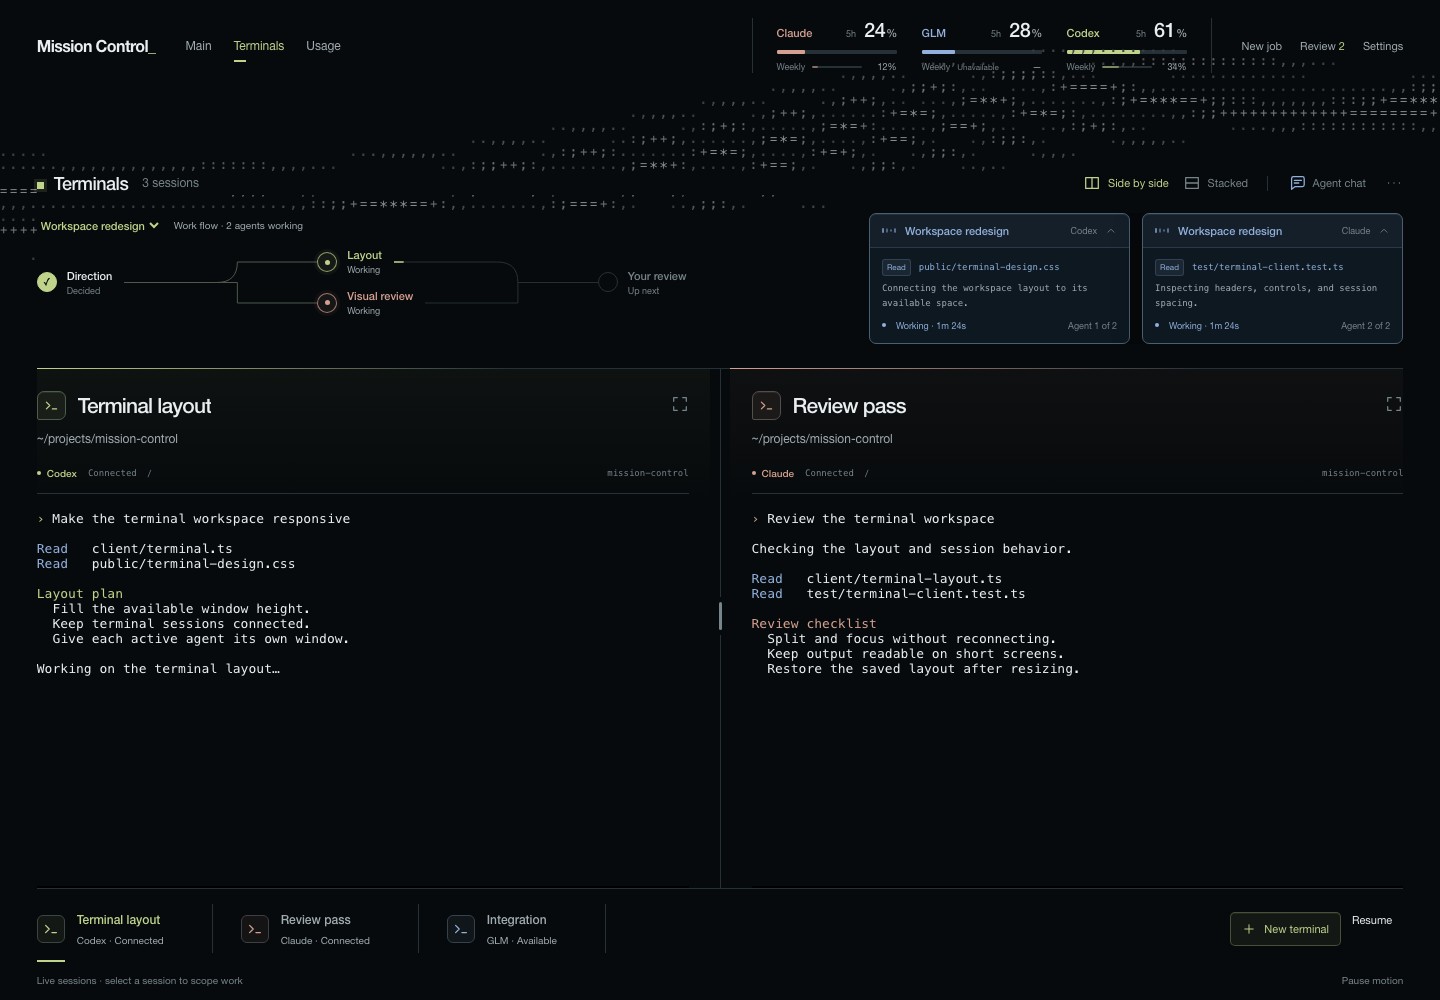
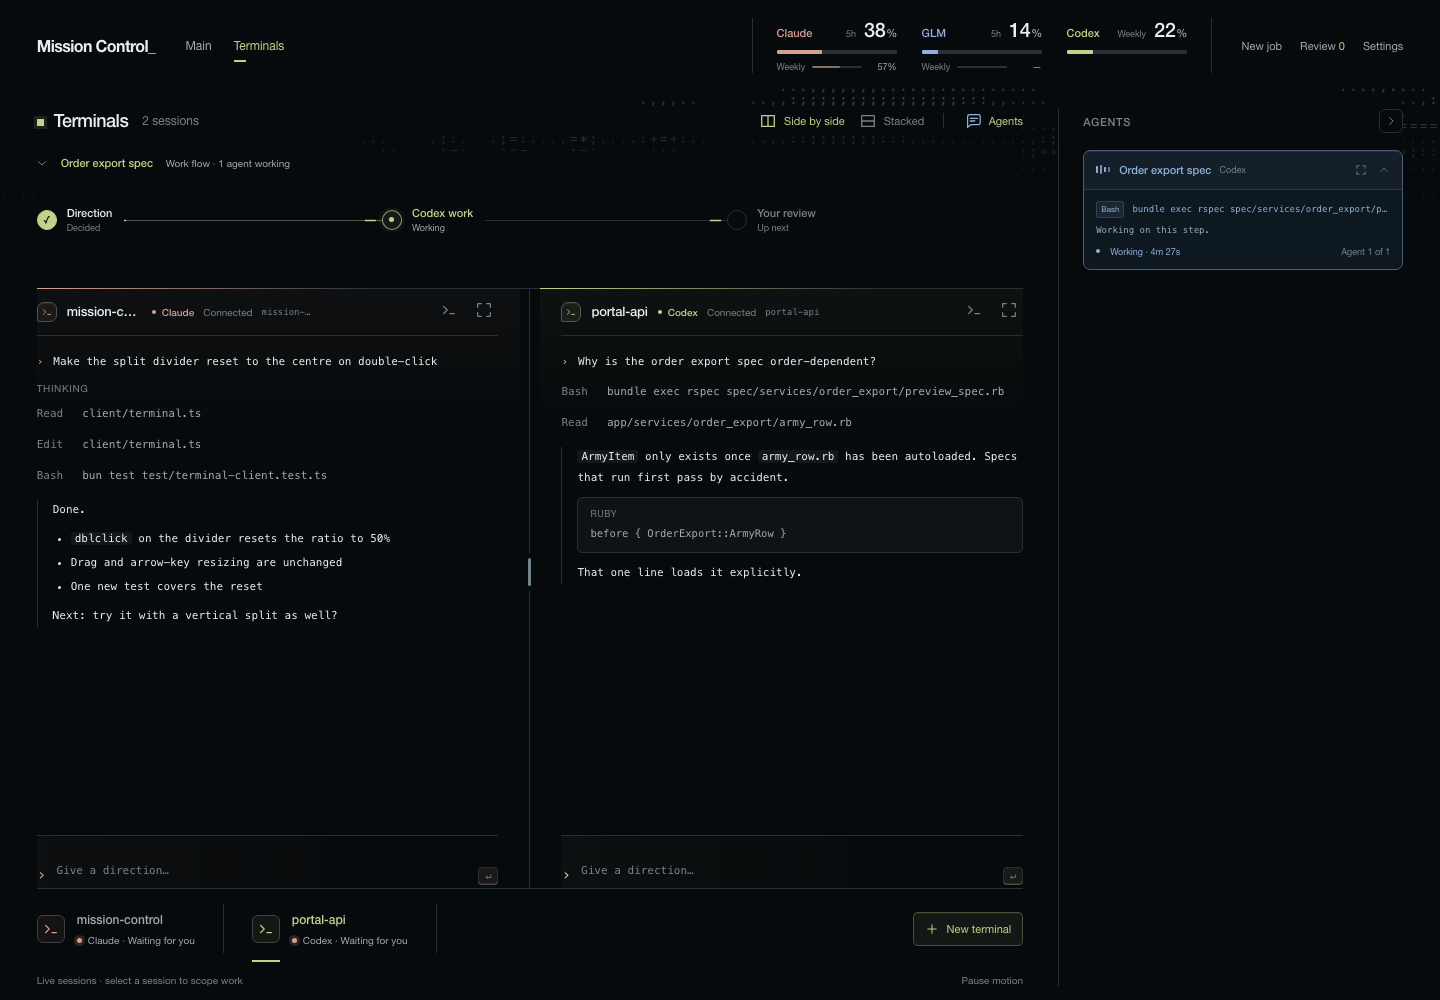
docs: README for the transcript workspace, re-recorded demo capture
Describes the transcript/shell panes, the dock composer, the collapsible
flow and agent sidebar, header-only usage with Codex weekly, the rebuilt
Settings page, and the worker acceptance baseline in mc-dispatch.
Demo re-recorded against a throwaway server with stubbed sessions.

diff --git a/README.md b/README.md
@@ -2,43 +2,46 @@
 
 **Your terminals, coding agents, and work in one browser tab.**
 
-Mission Control is a self-hosted workspace for Claude Code, GLM through an Anthropic-compatible endpoint, and OpenAI Codex CLI. Open interactive terminals, follow the agents working on the selected session, check provider usage, and review completed work without losing your terminal context.
+Mission Control is a self-hosted workspace for Claude Code, GLM through an Anthropic-compatible endpoint, and OpenAI Codex CLI. Open sessions as readable transcripts or raw shells, follow the agents working on the selected session, check provider usage in the header, and review completed work without losing your terminal context.
 
 ![Mission Control: split terminals, agent activity, and provider usage](docs/images/workspace.gif)
 
-*Recorded from the app with sample sessions, agent output, and usage values. [View the still image](docs/images/workspace.png).*
+*Recorded from the app with sample sessions, agent output, and usage values: a new session from the ⌘K composer, the transcript filling in, an agent conversation, a second pane, the raw shell, and the workspace folded down to the terminals. [View the still image](docs/images/workspace.png).*
 
 ## Why
 
 When work spans several coding agents, terminal output, usage limits, and review results are easy to lose track of. Mission Control keeps them together:
 
-- **Stay in your terminal.** Visit Main, Usage, Review, or Settings and return to the same sessions and scrollback.
-- **See the current work.** A branched flow and individual activity windows show the active agents associated with the selected terminal.
+- **Stay in your terminal.** Visit Main, Review, or Settings and return to the same sessions and scrollback.
+- **Read the session, not the escape codes.** Claude Code and Codex sessions render as a transcript: prompts, thinking, tool calls with their results, and Markdown answers. The raw shell is one keystroke away.
+- **See the current work.** A branched flow above the panes and agent cards in the sidebar show the work linked to the selected terminal, and both fold out of the way.
 - **Find the results.** Search conversations and plans, inspect changes, and acknowledge reviews in one work navigator.
 
 ## Features
 
 ### Terminal workspace
 
-Run full interactive CLI interfaces through xterm.js and a terminal connection over WebSocket. Arrange up to four panes side by side or stacked, drag the dividers, focus a session, rename tabs, reconnect, or resume Claude history. Navigation preserves the live terminal connections.
+The terminal takes the screen. Each pane has a one-line header (session, engine, connection state, directory) with quiet tools for find, reconnect, hide, and end, and the deck fills whatever height and width the window has.
 
-The workspace fills the available screen width and height. Narrow screens display the selected pane while retaining the saved split layout. Larger screens give agent activity its own side rails; longer lists scroll within their space. The ASCII background can be paused and respects reduced-motion preferences.
+Sessions open from a dock popover (⌘K or **New terminal**): pick Claude Code, GLM, or Codex with a chip, choose a model, and pick a recent directory or type one. The **Resume** tab lists earlier Claude Code sessions for a directory and reopens one in place. Arrange up to four panes side by side or stacked, drag the divider or double-click it to recentre, rename a session with F2, and switch sessions with ⌘1–9. Navigation preserves the live terminal connections, and narrow screens show the selected pane while keeping the saved split.
 
-### Flow and agent conversations
+**Transcript and shell.** A Claude Code or Codex session renders as a transcript read from the session's own log: the prompt, collapsible thinking, tool rows that expand to their result, and Markdown answers with code blocks, lists, and headings. A working line shows the current tool and elapsed time, and the session strip labels each session Idle, Ready, Working, or Waiting for you. A composer under the transcript sends the next direction. ⌘J switches the same pane to the raw shell, an xterm.js terminal in JetBrains Mono with find (⌘F) and full scrollback; the choice is remembered per session.
 
-Follow a manual plan or a flow built from the selected terminal's linked conversations. Each active conversation has its own window showing the latest tool, activity, and state. Open the full conversation for detail. Replies and automatic reviews stay with their originating conversation.
+### Flow and agents
+
+Above the panes, a collapsible flow shows the plan attached to the selected terminal's work: steps light up as engine jobs run and settle when they finish, and a follow-up reply reactivates the step it belongs to. The agent sidebar on the right holds one card per running conversation with its latest tool and activity; it opens itself when agents are working on the selected terminal and folds when none are, and a manual close stays closed. Expanding a card opens the full conversation in a fullscreen modal where you can reply, and reviews stay with the conversation they review. Confirmations use in-app dialogs, never browser prompts.
 
 ### Provider usage
 
-The header puts every provider's five-hour usage in the same position, with weekly usage underneath. The Usage page adds reset times and available accounting details.
+The header shows every provider's usage in the same position: a five-hour window with weekly usage underneath for Claude and GLM, and the weekly window alone for Codex, which has no five-hour limit. Reset times appear on hover, and a value observed more than a few minutes ago carries its age.
 
 | Provider | Usage source |
 |---|---|
-| Claude Code | Fresh `ccstatusline` cache when available; a labeled `ccusage` estimate otherwise |
+| Claude Code | The `ccstatusline` cache when it is under twelve hours old, otherwise a labeled `ccusage` estimate refreshed at most every fifteen minutes |
 | GLM | Five-hour and monthly usage from the z.ai monitor API; weekly usage is unavailable |
-| Codex | Five-hour and weekly windows reported by the Codex CLI account API |
+| Codex | Weekly window reported by the Codex CLI account API |
 
-Missing or unsupported windows display **Unavailable**. Claude cost and token estimates remain separate from reported quota limits.
+Missing or unsupported windows draw an empty track instead of a number. Claude cost and token estimates remain separate from reported quota limits.
 
 ### Work, dispatch, and review
 
@@ -46,7 +49,7 @@ Search and filter conversations and plans in Main. Dispatch background `claude -
 
 ### Settings
 
-Configure engines and the plan, execute, and review roles; choose models and automatic review behavior; and test connections. Saved defaults refresh in the workspace while preserving forms you have already started editing.
+Settings shares the terminal identity: engine chips assign the plan, execute, and review roles, a switch controls automatic review, and connection pills show Claude, Codex, GLM, and cockpit-token state with a test button beside each. Saved defaults refresh in the workspace while preserving forms you have already started editing.
 
 ## Quickstart
 
@@ -75,7 +78,7 @@ The test suite runs offline without engine CLIs. To regenerate the static develo
 
 ## Claude Code skill
 
-Installing Mission Control also installs the `mc-dispatch` orchestration skill into Claude Code. `bun install` (or the first cockpit start) links `~/.claude/skills/mc-dispatch` to `skills/mc-dispatch` in this repo — so the skill is a symlink, and `git pull` updates it with no further action. An existing hand-written copy at that path is never overwritten: it is moved aside to `~/.claude/skills-backup/mc-dispatch.pre-mission-control-<timestamp>` before the link is created — deliberately outside `skills/`, so Claude Code never loads the backup as a second skill.
+Installing Mission Control also installs the `mc-dispatch` orchestration skill into Claude Code. The skill carries an acceptance baseline for every worker: run the specs you touched or that reference your change (never the full suite), no forced waits and no warnings or errors in the output, and nothing on the remote lost or made incompatible, with evidence in the completion note. The orchestrator runs the full suite or `bin/ci` once, at landing. `bun install` (or the first cockpit start) links `~/.claude/skills/mc-dispatch` to `skills/mc-dispatch` in this repo — so the skill is a symlink, and `git pull` updates it with no further action. An existing hand-written copy at that path is never overwritten: it is moved aside to `~/.claude/skills-backup/mc-dispatch.pre-mission-control-<timestamp>` before the link is created — deliberately outside `skills/`, so Claude Code never loads the backup as a second skill.
 
 On `bun install` and every cockpit start, Mission Control translates Claude's global instructions, skills and Markdown agents for Codex, skipping incompatible orchestration assets while keeping clean skills and supporting resources symlinked. Generated instructions and translated skills are real files, displaced personal assets are preserved under `~/.codex/backup/`, and unchanged output keeps its mtime; GLM continues to share `~/.claude`, while isolated worker profiles stay slim.
 
@@ -90,7 +93,7 @@ Bun + Elysia (TypeScript end to end)
 └── JSON state in ~/.config/mission-control — no database
 ```
 
-The application is written in TypeScript and CSS; client bundles are cached until their source changes. Standalone design studies and their capture tools live in `visualizer/ui-overhaul/`.
+The application is written in TypeScript and CSS; client bundles are cached until their source changes. Transcripts come straight from the engines' own session logs (`~/.claude/projects` JSONL and `~/.codex/sessions` rollouts) and are parsed once per file change. JetBrains Mono ships with the app under the OFL. Standalone design studies and their capture tools live in `visualizer/ui-overhaul/`.
 
 ## Security
 
